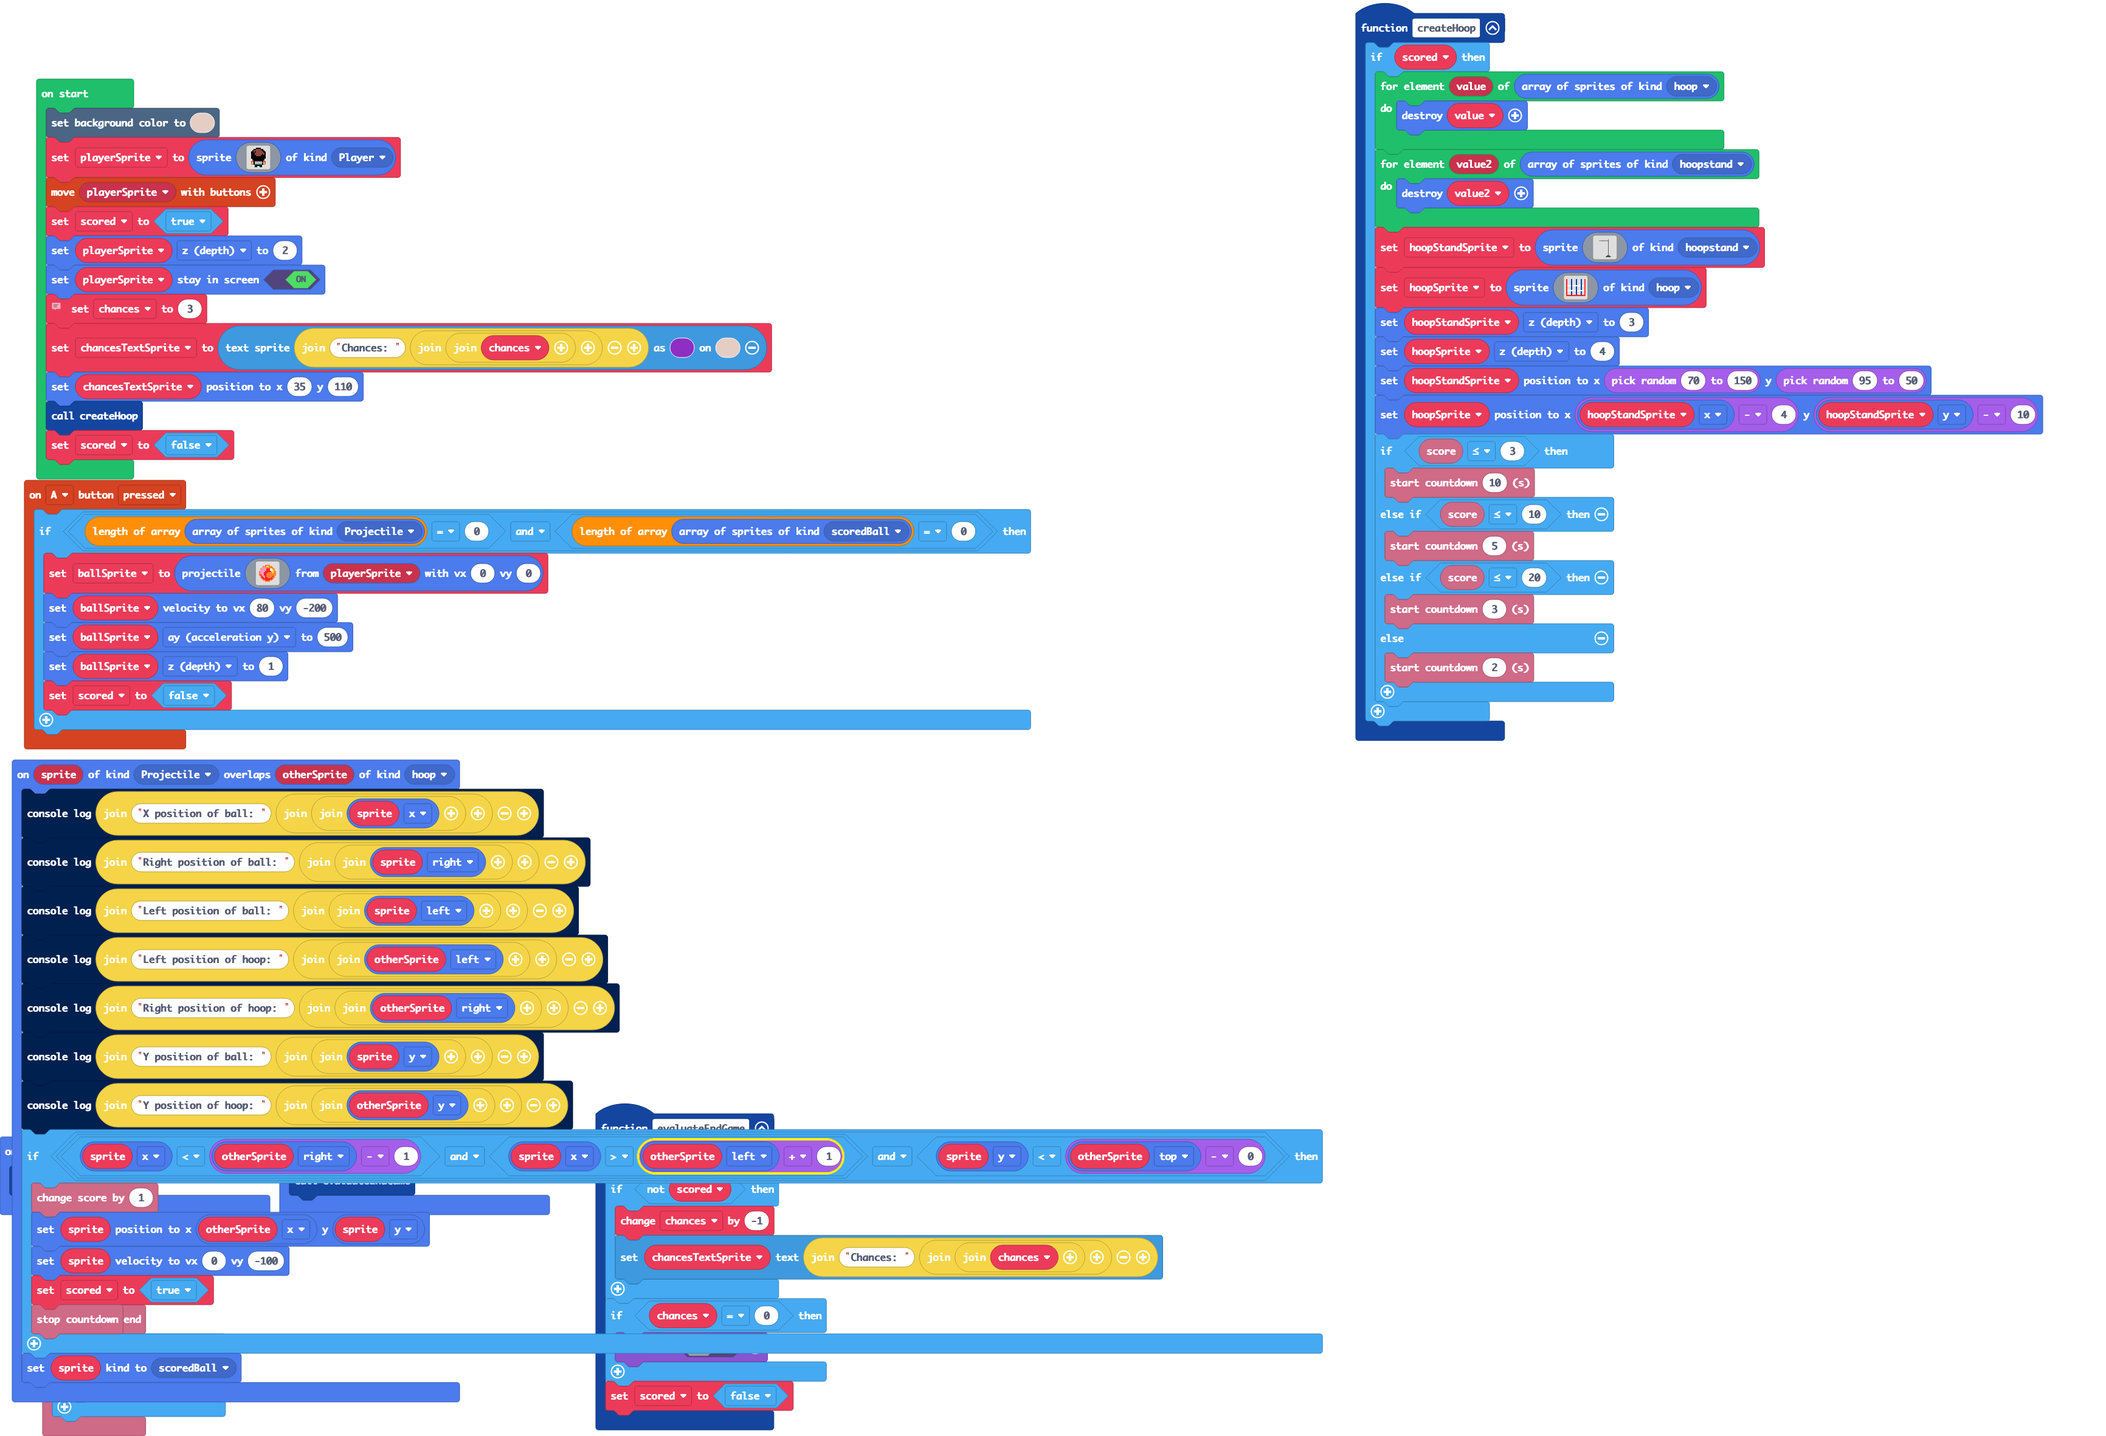
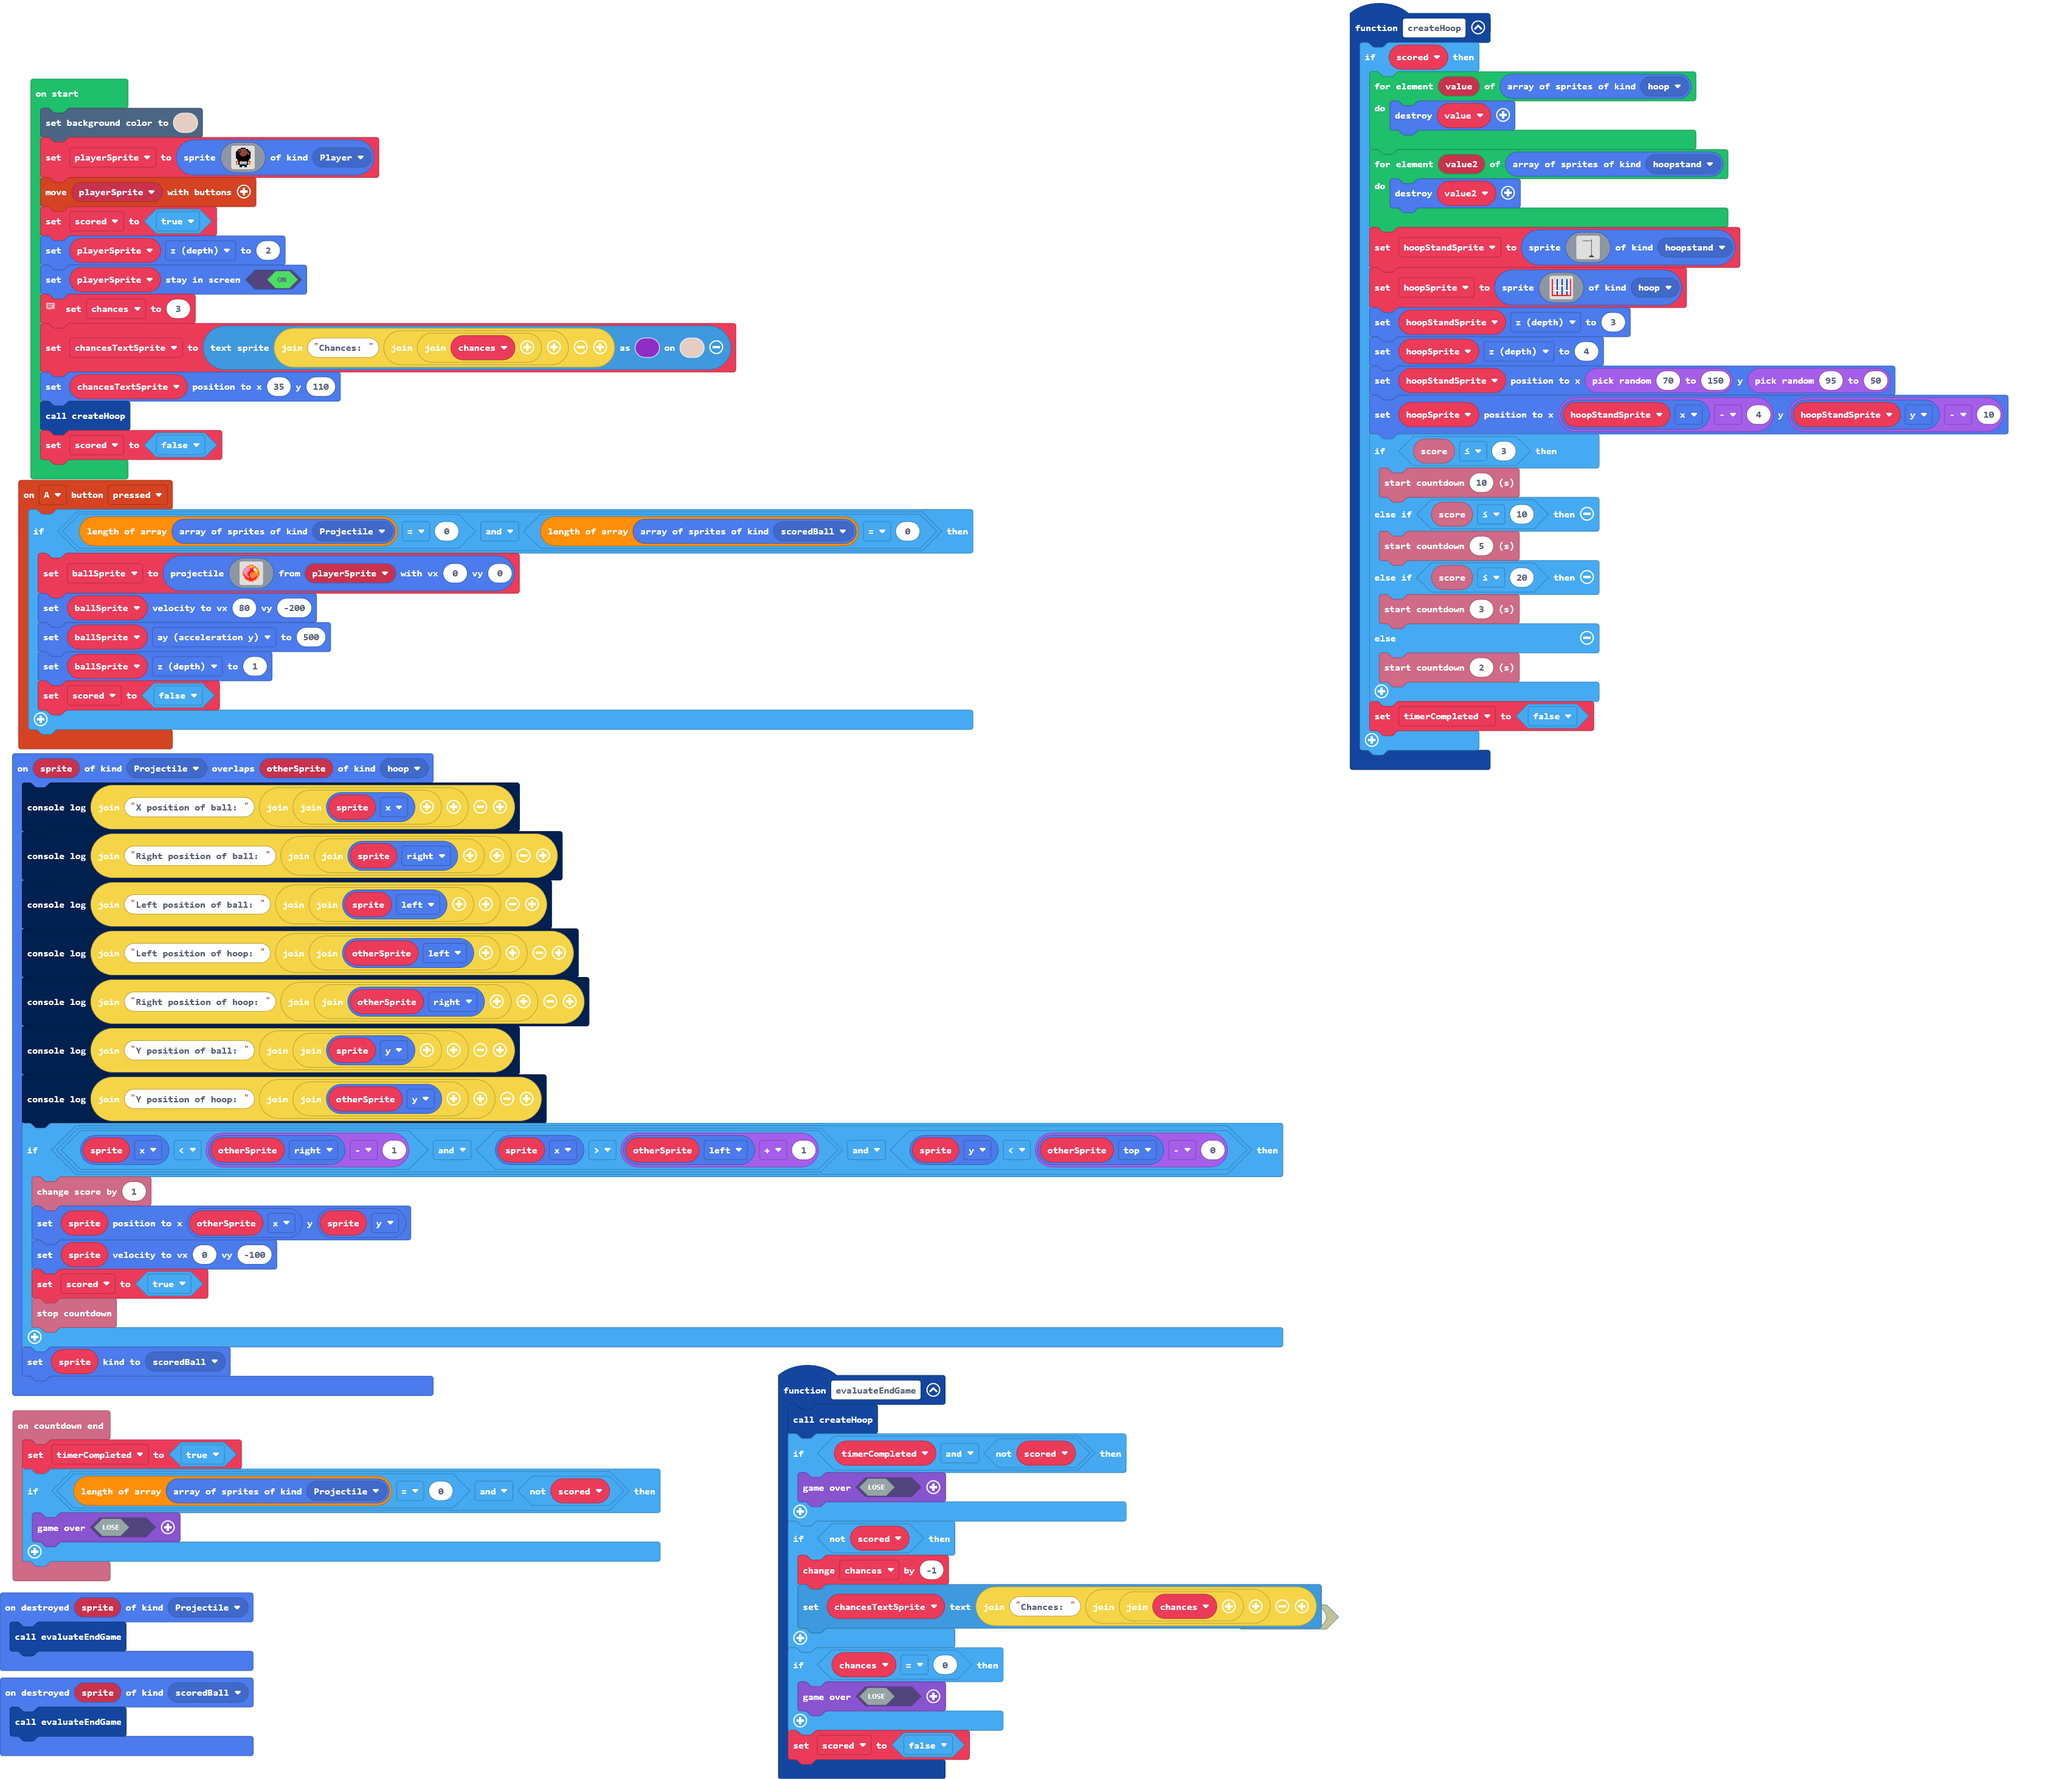
Game over on timer finish only if you miss the shot

diff --git a/main.ts b/main.ts
@@ -33,7 +33,8 @@ controller.A.onEvent(ControllerButtonEvent.Pressed, function () {
     }
 })
 info.onCountdownEnd(function () {
-    if (!(scored)) {
+    timerCompleted = true
+    if (sprites.allOfKind(SpriteKind.Projectile).length == 0 && !(scored)) {
         game.over(false)
     }
 })
@@ -124,6 +125,7 @@ function createHoop () {
         } else {
             info.startCountdown(2)
         }
+        timerCompleted = false
     }
 }
 sprites.onOverlap(SpriteKind.Projectile, SpriteKind.hoop, function (sprite, otherSprite) {
@@ -145,6 +147,9 @@ sprites.onOverlap(SpriteKind.Projectile, SpriteKind.hoop, function (sprite, othe
 })
 function evaluateEndGame () {
     createHoop()
+    if (timerCompleted && !(scored)) {
+        game.over(false)
+    }
     if (!(scored)) {
         chances += -1
         chancesTextSprite.setText("Chances: " + ("" + chances))
@@ -159,6 +164,7 @@ sprites.onDestroyed(SpriteKind.Projectile, function (sprite) {
 })
 let hoopSprite: Sprite = null
 let hoopStandSprite: Sprite = null
+let timerCompleted = false
 let ballSprite: Sprite = null
 let chancesTextSprite: TextSprite = null
 let chances = 0
